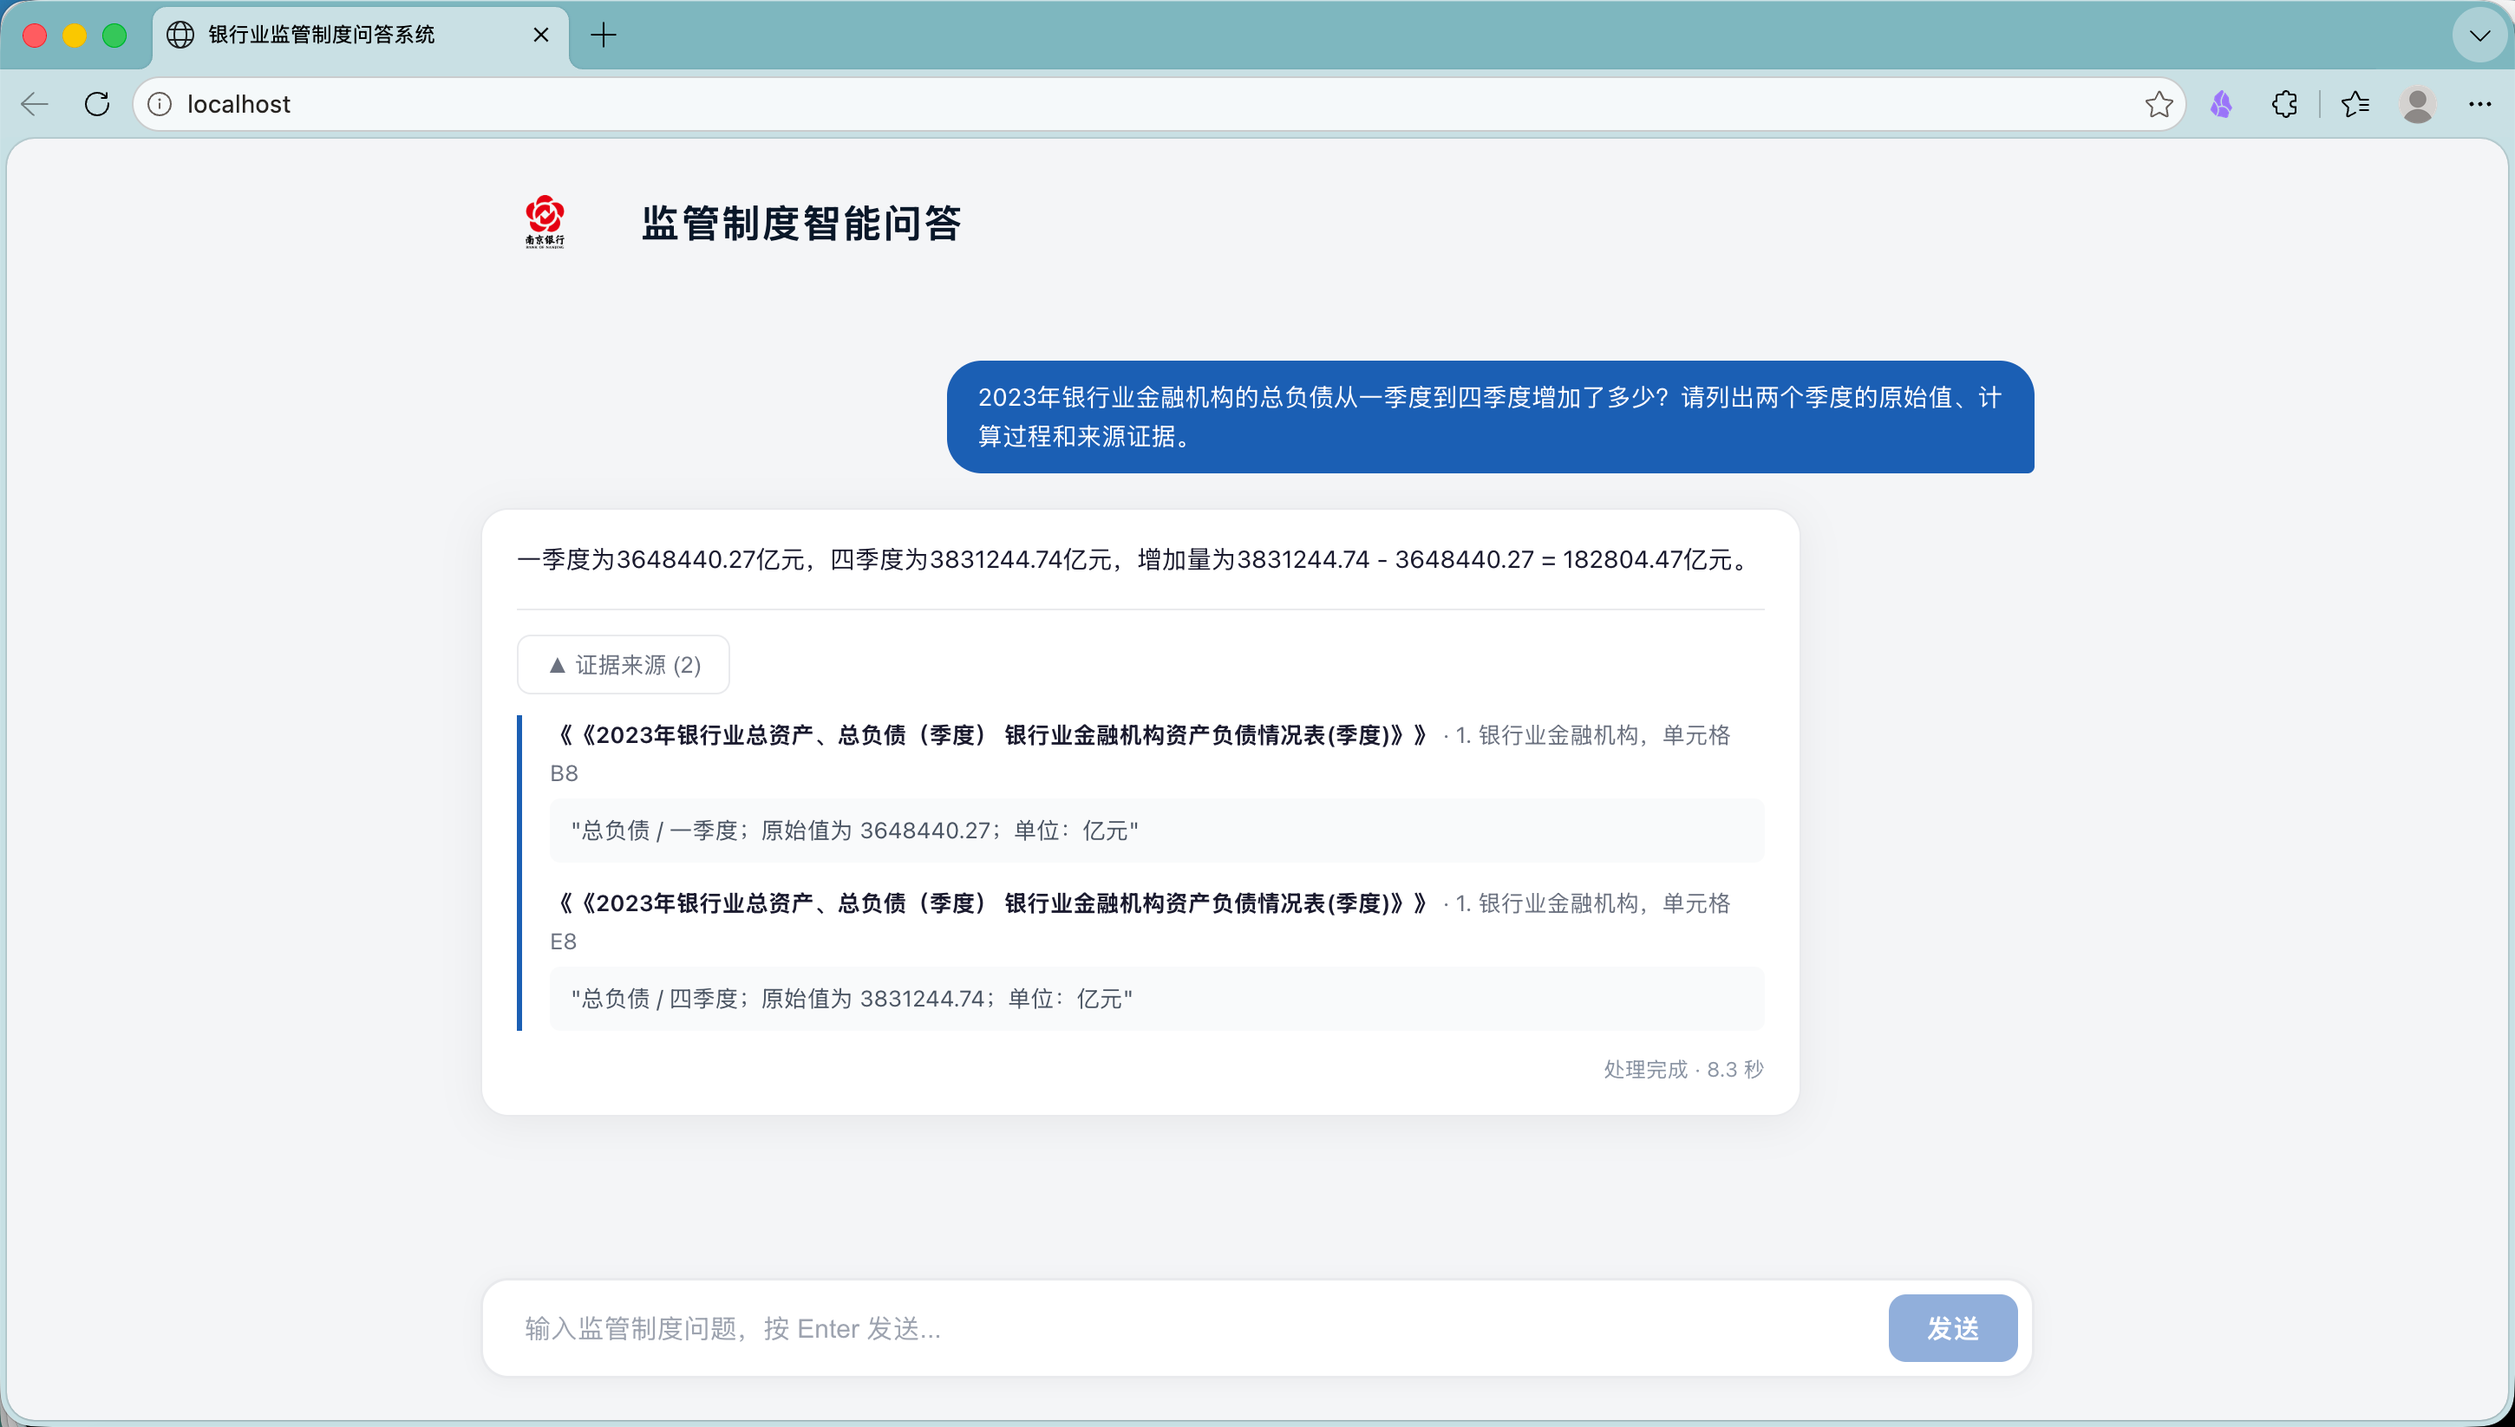
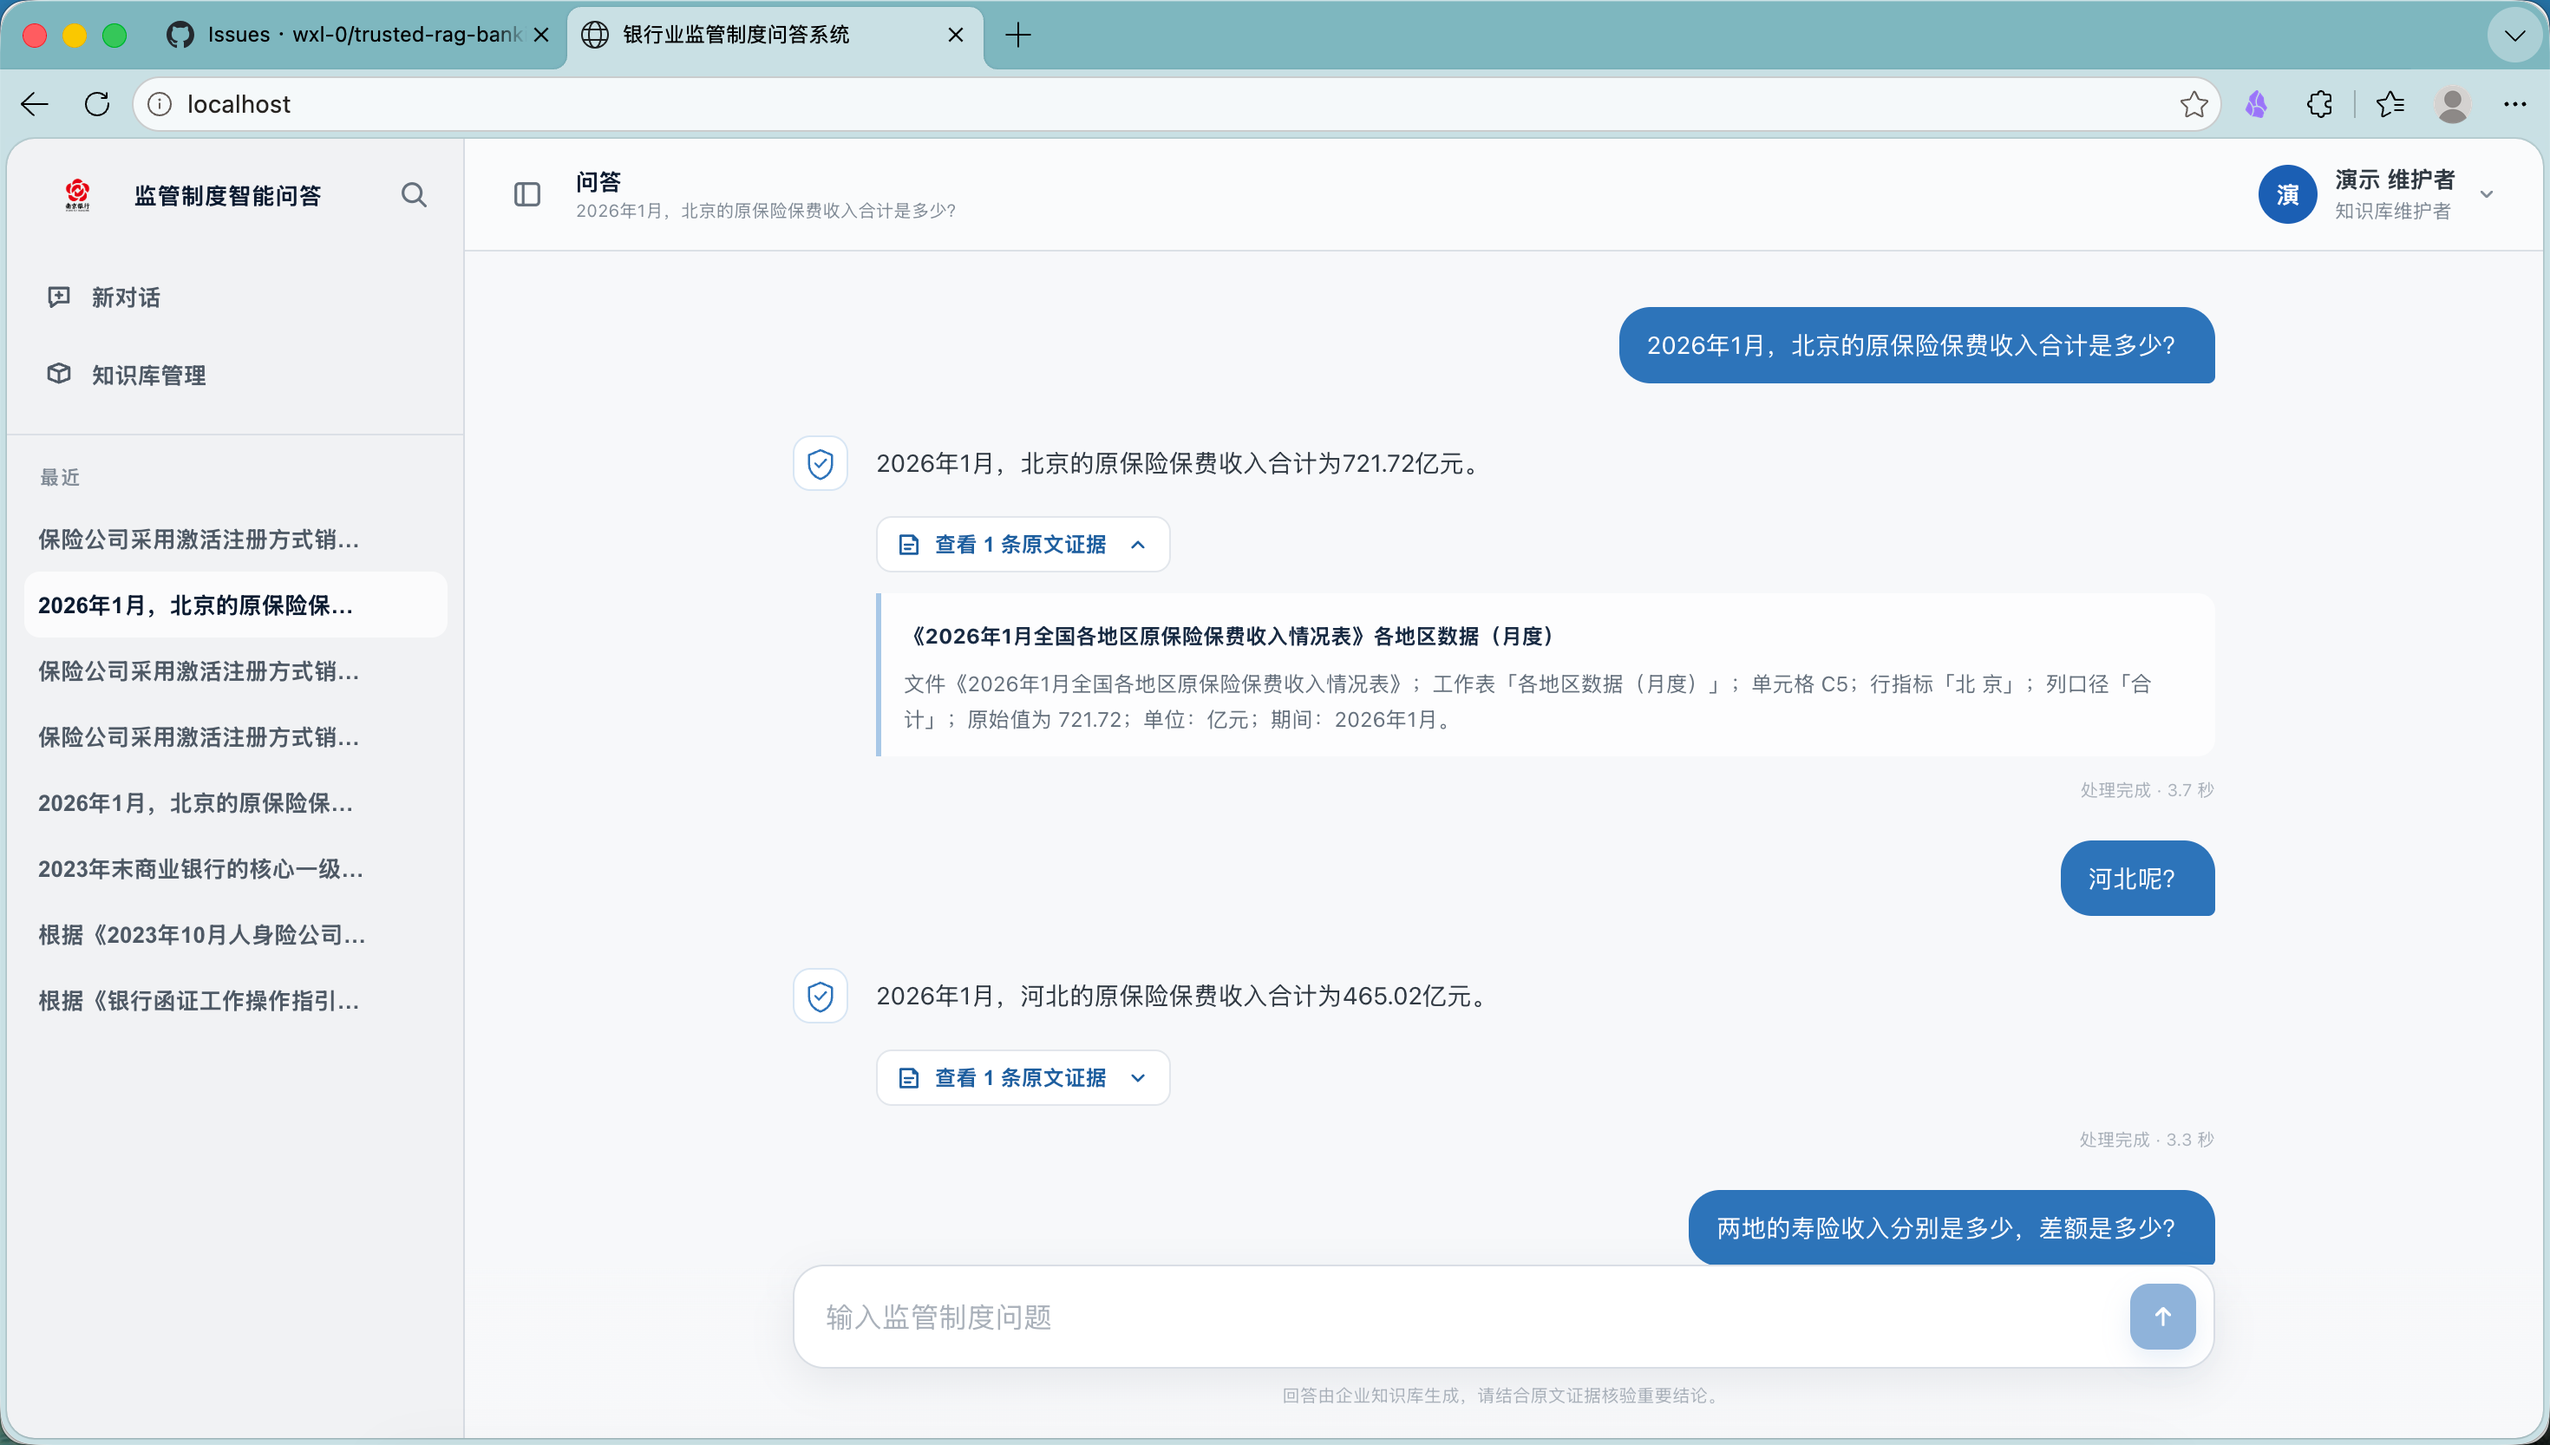
docs: add demo video and refresh screenshots

diff --git a/README.md b/README.md
@@ -6,6 +6,12 @@
 
 ![系统首页](docs/assets/system-home.png)
 
+## 项目演示
+
+视频演示知识库管理、监管问答、连续追问与原文证据查看流程。
+
+https://github.com/user-attachments/assets/e1274fa6-9592-4c04-b64f-13e6ba042471
+
 ## 当前实现状态
 
 本仓库同时包含当前可运行系统、下一阶段静态原型和已确认的企业化演进方案。三者边界如下：
